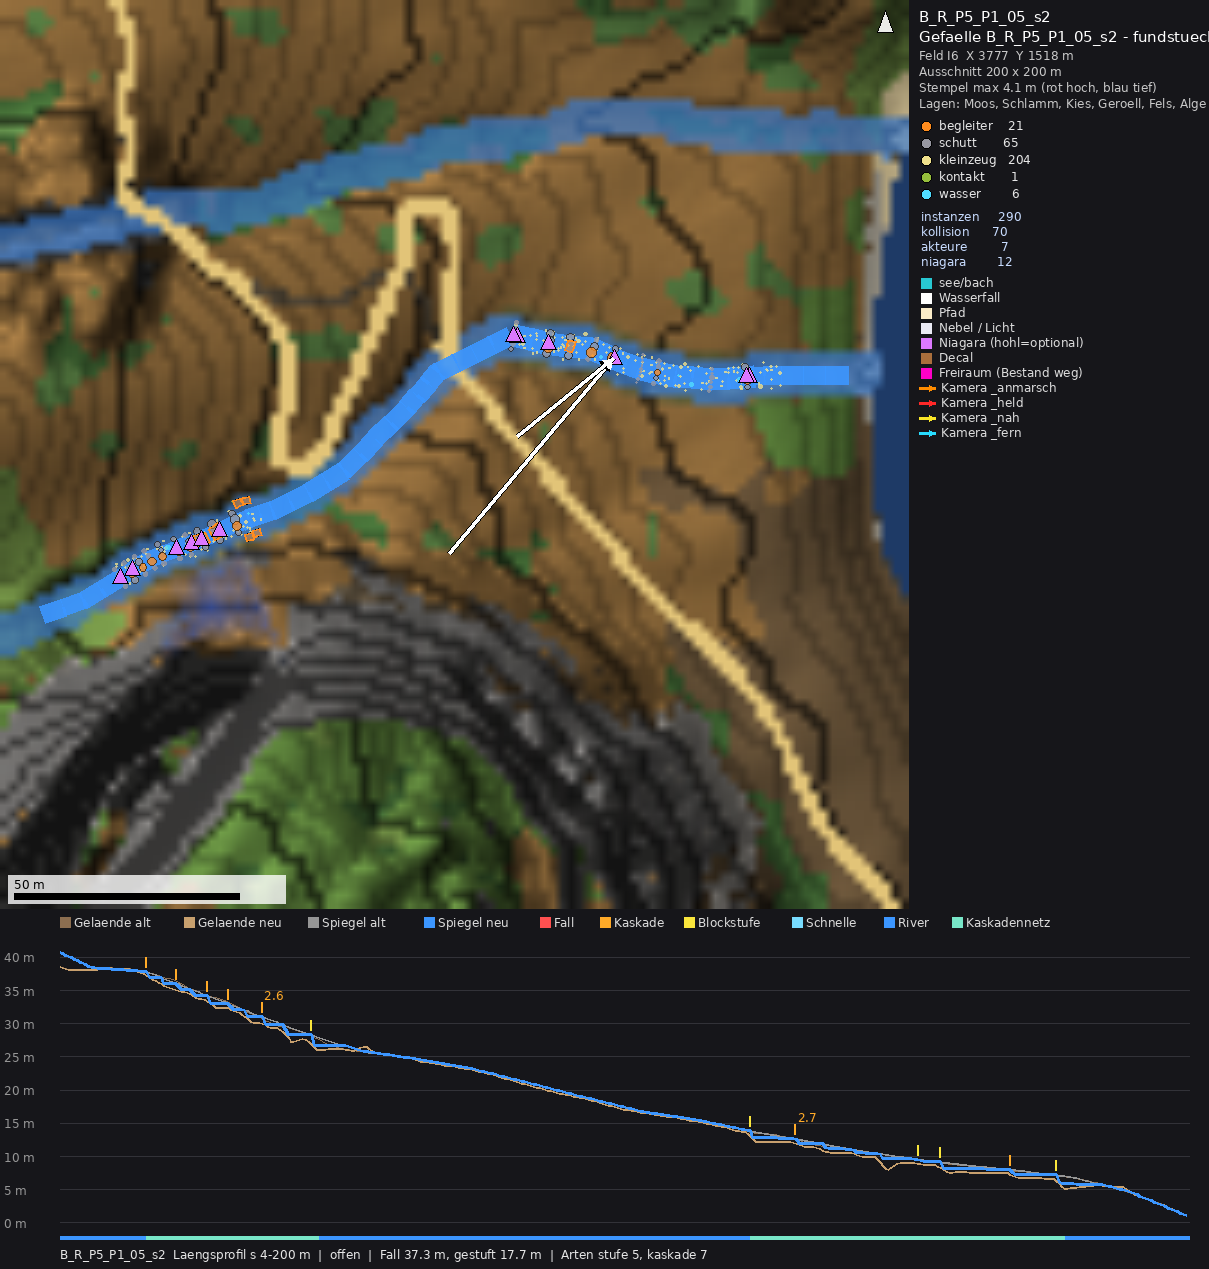
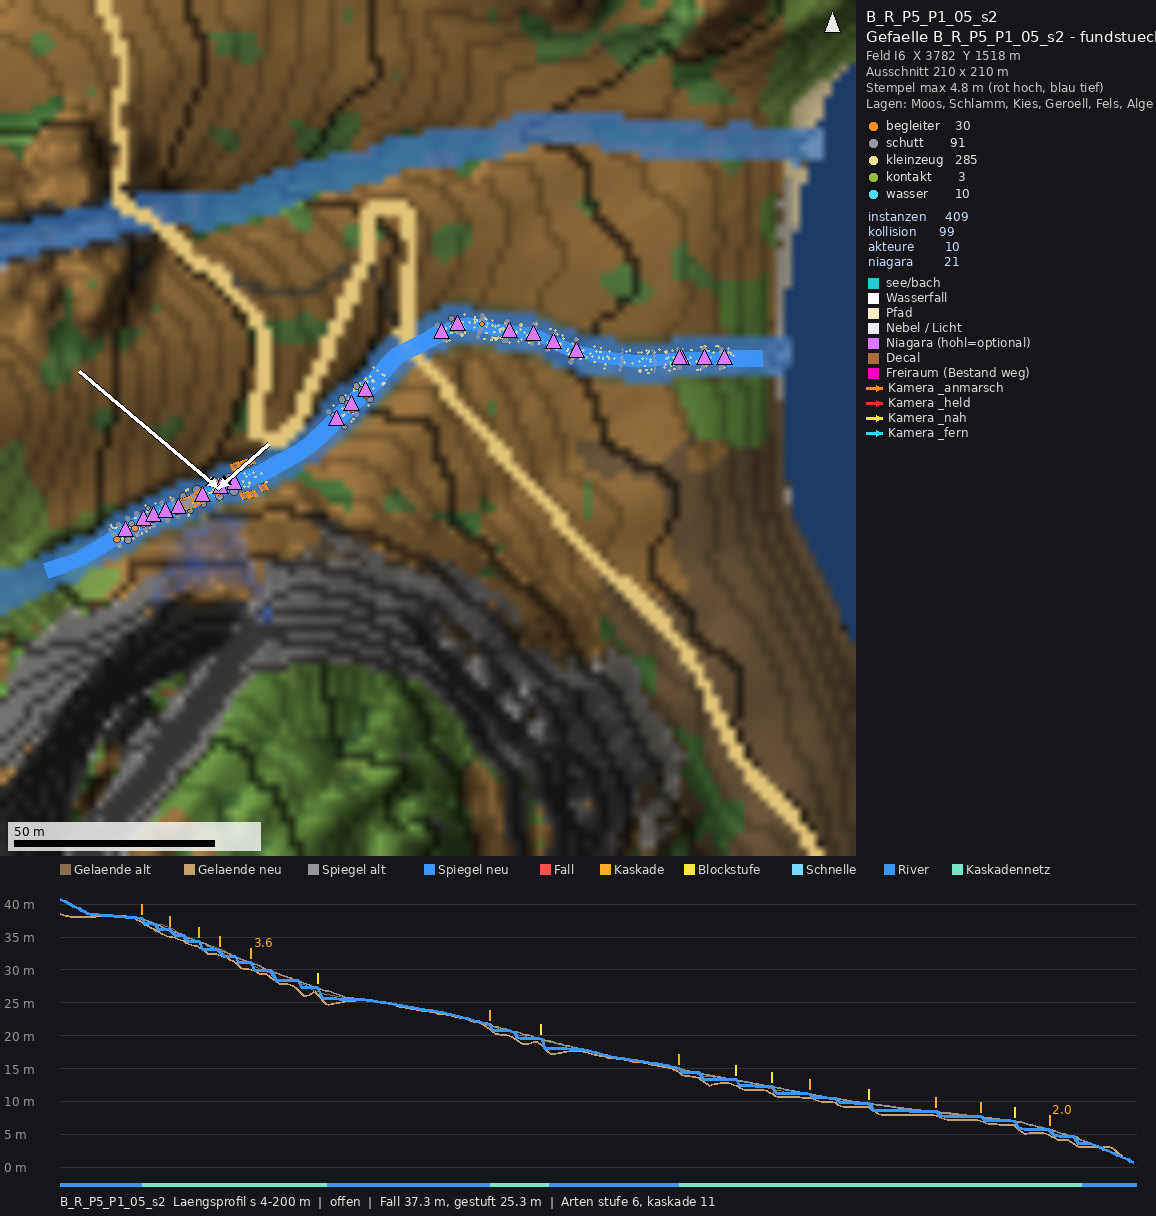
Auftrag 15: Zwischenstand (WIP)
Claude-Session: https://claude.ai/code/session_012h1LYW6NJeQxhd7im8Kkes

diff --git a/recherche/antworten/skripte/gefaelle/gefaelle_plan.py b/recherche/antworten/skripte/gefaelle/gefaelle_plan.py
@@ -525,11 +525,12 @@ class Stufenleger:
                         del st[0]
                         geaendert = True
                         break
-                if e["art"] != "fall" and e["D"] > e["D_max"] + 1e-6 and e["q"] - e["p"] > 2 * e["L_min"]:
+                lmin_t = 5.0 if e["art"] == "schnelle" else e["L_min"]     # Schnelle: Rampe 4 m + 1 m Becken
+                if e["art"] != "fall" and e["D"] > e["D_max"] + 1e-6 and e["q"] - e["p"] > 2 * lmin_t:
                     # zu gross fuer die Art: Einheit an der Haelfte des Spiegelfalls teilen
                     zm = 0.5 * (pr.zi(e["p"]) + pr.zi(e["q"]))
                     sm = float(np.interp(-zm, -pr.z0, pr.s))
-                    sm = float(np.clip(sm, e["p"] + e["L_min"], e["q"] - e["L_min"]))
+                    sm = float(np.clip(sm, e["p"] + lmin_t, e["q"] - lmin_t))
                     sm = self.aus_verbot(sm, e["p"] + 1.0, e["q"] - 1.0)
                     neu = {"p": sm, "q": e["q"], "erzwungen": False, "fels": e["fels"], "klasse": e.get("klasse")}
                     e["q"] = sm
